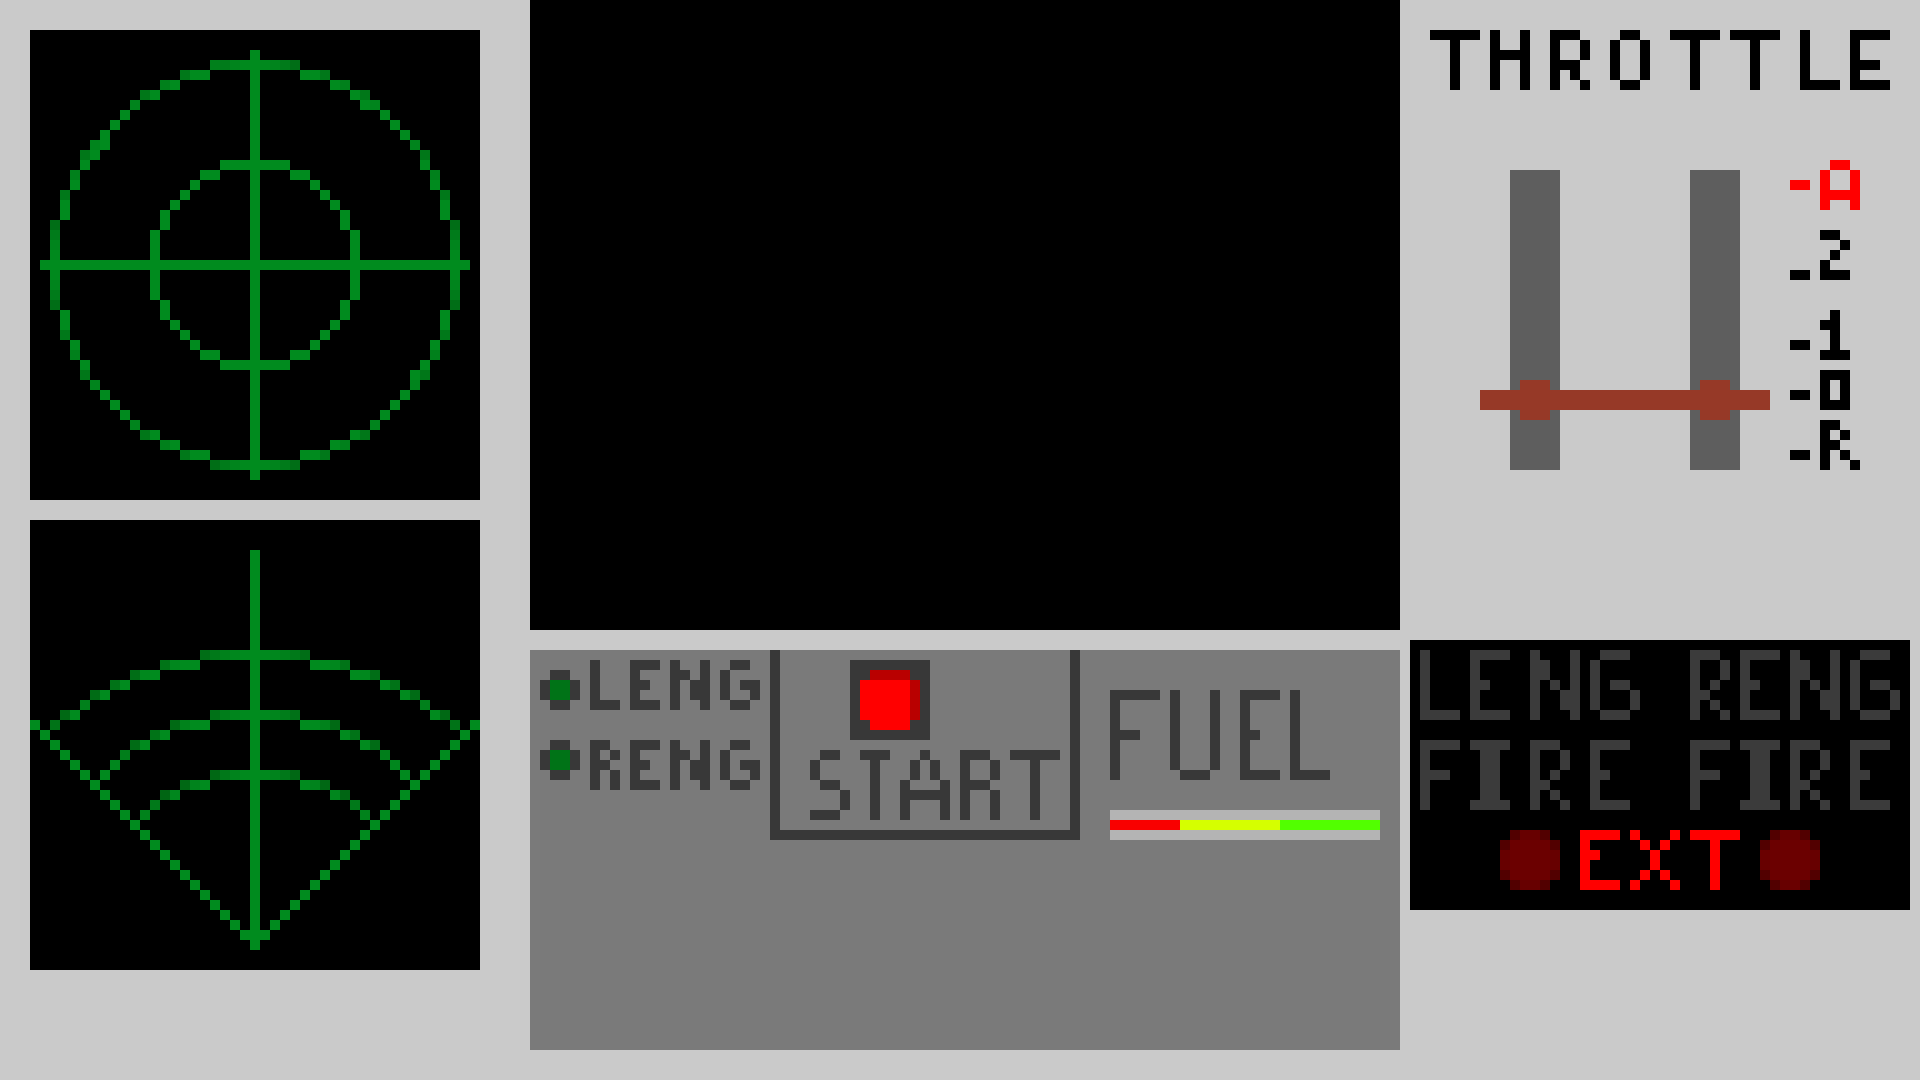
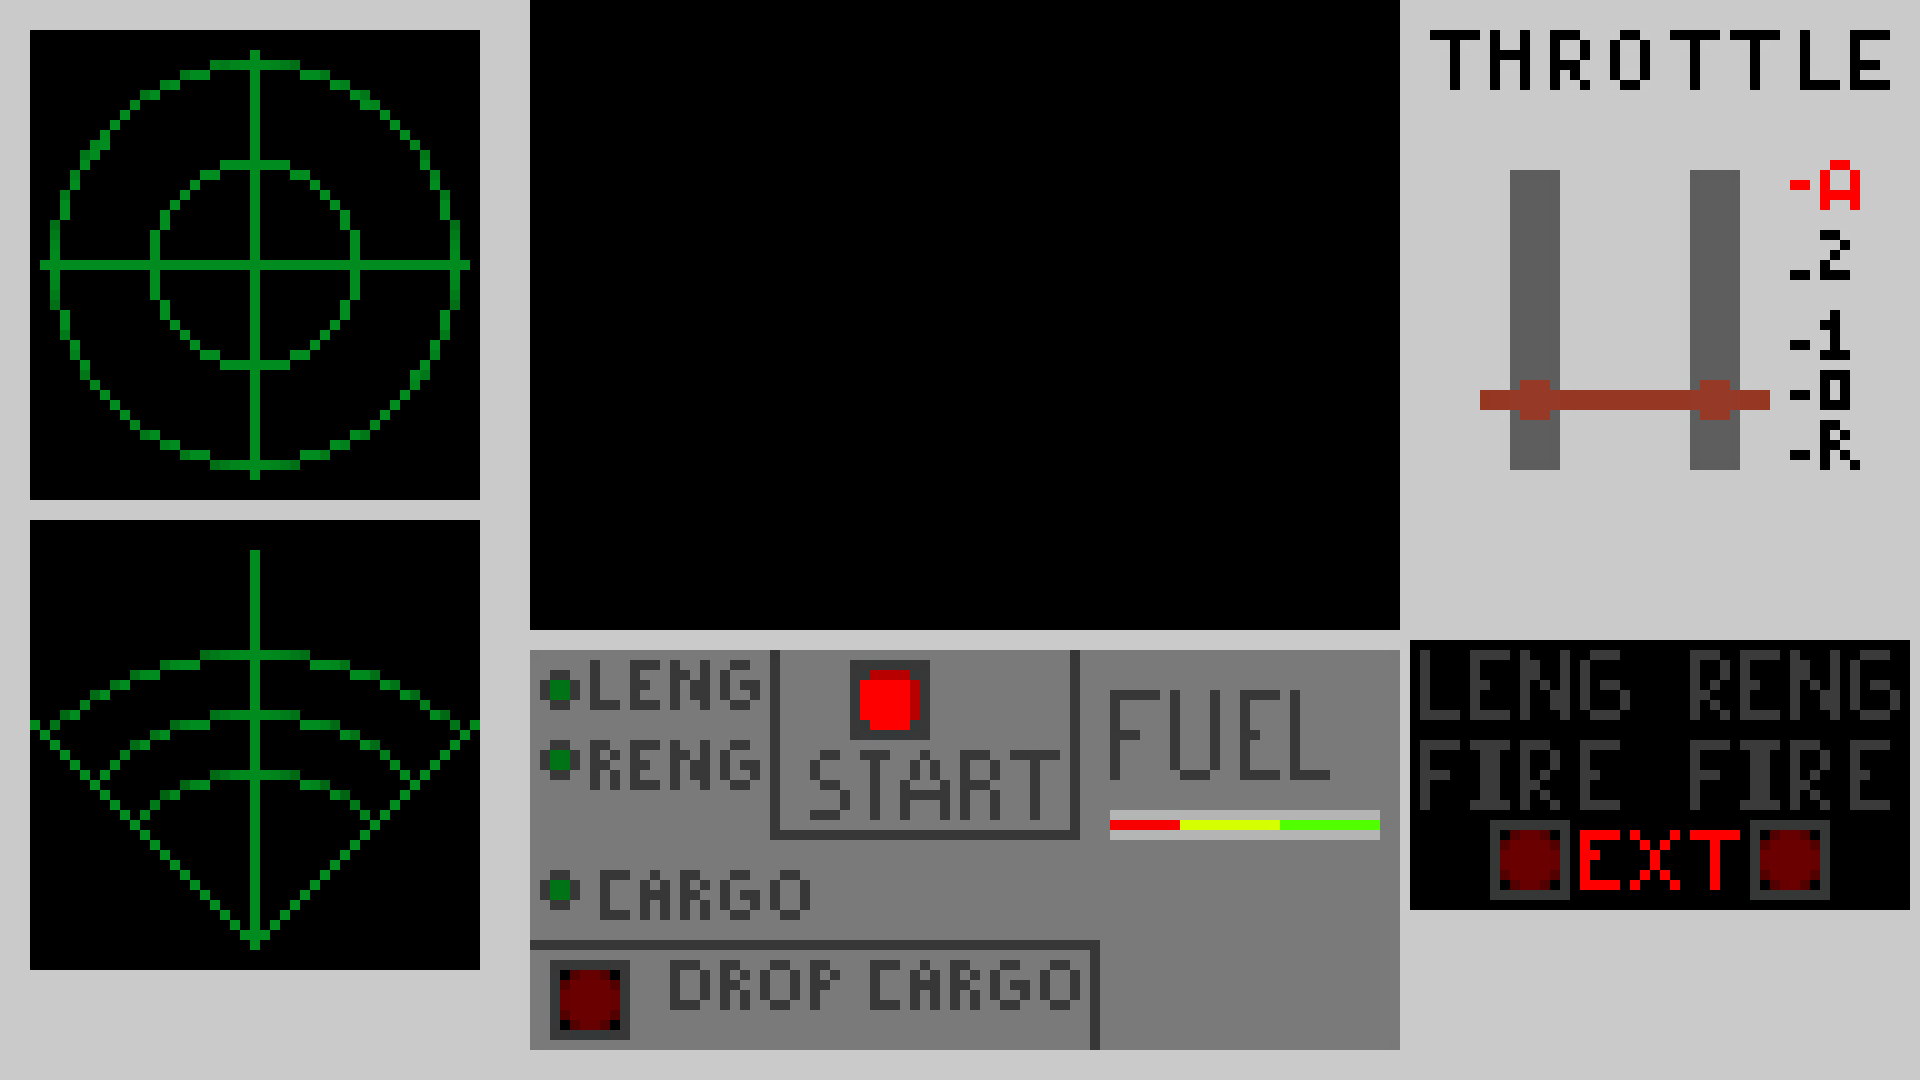
- Added basic cargo functionality

diff --git a/main.py b/main.py
@@ -66,6 +66,7 @@ class SpaceDelivery:
 
         self.engine_indicator = pygame.image.load("assets/engine_indicator.png")
         self.fire_extinguish = pygame.image.load("assets/fire_button.png")
+        self.cargo_button = pygame.image.load("assets/fire_button.png")
 
         self.l_fire_indicator = pygame.image.load("assets/l_fire.png")
         self.r_fire_indicator = pygame.image.load("assets/r_fire.png")
@@ -85,7 +86,7 @@ class SpaceDelivery:
         self.l_engine_fire_offset_x = 1400
         self.l_engine_fire_offset_y = 640
 
-        self.r_engine_fire_offset_x = 1690
+        self.r_engine_fire_offset_x = 1670
         self.r_engine_fire_offset_y = 640
 
         self.l_engine_active = False
@@ -113,6 +114,12 @@ class SpaceDelivery:
 
         self.turning_left = False
         self.turning_right = False
+
+        self.cargo_offset_x = 540
+        self.cargo_offset_y = 870
+
+        self.cargo_drop_offset_x = 560
+        self.cargo_drop_offset_y = 970
 
         self.ship_turning_factor = pi/800
 
@@ -209,7 +216,7 @@ class SpaceDelivery:
         if self.throttle_quadrant == "FORWARD_2":
             self.fuel -= 0.01 * self.failure_factor
         if self.throttle_quadrant == "AFTERBURNER":
-            self.fuel -= 0.1 * self.failure_factor
+            self.fuel -= 0.3 * self.failure_factor
     def update_engine_indicators(self):
         if self.l_engine_active:
             self.surface.blit(self.engine_indicator, (self.l_engine_offset_x, self.l_engine_offset_y))
@@ -243,10 +250,17 @@ class SpaceDelivery:
             if self.turning_right:
                 self.ship.direction -= self.ship_turning_factor * sqrt(abs(self.ship.speed))
 
+    def update_cargo(self):
+        if self.has_started:
+            self.surface.blit(self.engine_indicator, (self.cargo_offset_x, self.cargo_offset_y))
+            dist = sqrt((self.ship.x-self.ship.destination_x) ** 2 + (self.ship.y-self.ship.destination_y) ** 2)
+            if dist < 20:
+                self.surface.blit(self.cargo_button, (self.cargo_drop_offset_x,self.cargo_drop_offset_y))
+
     def check_collisions(self):
         for asteroid in self.galaxy.asteroids:
             dist = sqrt((self.ship.x - asteroid.x)**2 +  (self.ship.y - asteroid.y)**2)
-            if dist < 1:
+            if dist < 2:
                 failure = self.rng.gen_int(1,6)
                 if failure == 1:
                     self.cause_of_death = 'ASTEROID_COLLISION'
@@ -272,7 +286,7 @@ class SpaceDelivery:
             self.cause_of_death = 'ENGINE_EXPLODED'
 
     def check_engine_on(self):
-        if self.has_started and not self.l_engine_active and not self.r_engine_active:
+        if self.has_started and self.l_engine_broken and self.r_engine_broken:
             self.cause_of_death = 'ENGINE_FAILURE'
 
     def _debug_plot(self):
@@ -400,6 +414,7 @@ class SpaceDelivery:
                 self.ship.update_position()
                 self.update_direction()
                 self.update_fire_indicators()
+                self.update_cargo()
                 self.check_distance()
                 self.check_engine_on()
                 self.check_engine_explosion()
